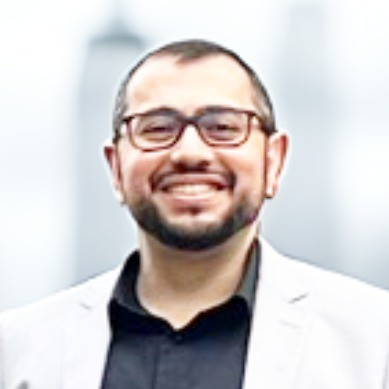
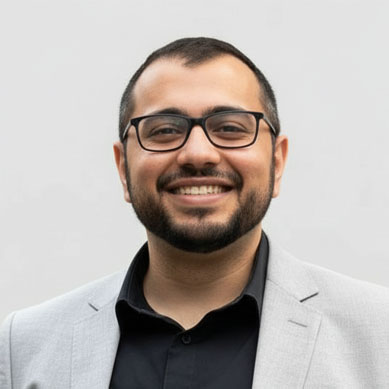
Minor updates

diff --git a/index.html b/index.html
@@ -25,6 +25,12 @@
     <link rel="preconnect" href="https://fonts.googleapis.com">
     <link rel="preconnect" href="https://fonts.gstatic.com" crossorigin>
     
+    <!-- Preload critical image -->
+    <link rel="preload" as="image" href="/images/Qandil-IssaQandil_400x400.jpg" type="image/jpeg">
+    
+    <!-- Preload critical font -->
+    <link rel="preload" href="https://fonts.gstatic.com/s/inter/v12/UcCO3FwrK3iLTeHuS_fvQtMwCp50KnMw2boKoduKmMEVuLyfAZ9hiJ-Ek-_EeA.woff2" as="font" type="font/woff2" crossorigin>
+    
     <!-- Font -->
     <link href="https://fonts.googleapis.com/css2?family=Inter:wght@400;500;700&display=swap" rel="stylesheet">
     
@@ -154,12 +160,18 @@
 </head>
 <body>
     <main class="hero">
-        <img class="profile-image" 
-             src="images/Qandil-IssaQandil_400x400.jpg" 
-             alt="Issa Qandil" 
-             width="180" 
-             height="180"
-             data-track="profile-image">
+        <picture>
+            <!-- WebP format for modern browsers -->
+            <source srcset="images/Qandil-IssaQandil_400x400.webp" type="image/webp">
+            <!-- Fallback JPEG for older browsers -->
+            <img class="profile-image" 
+                 src="images/Qandil-IssaQandil_400x400.jpg" 
+                 alt="Issa Qandil - Senior Program Manager and Digital Transformation Expert"
+                 width="180" 
+                 height="180"
+                 data-track="profile-image"
+                 loading="eager">
+        </picture>
         <h1>Hi, I'm Issa Qandil</h1>
         <h2>Senior Program Manager</h2>
         <p class="lead">
@@ -185,8 +197,8 @@
     </footer>
 
     <script>
-        // GA4 Setup
-        const GA_ID = 'UA-17167181-1';
+        // Google Analytics 4 Integration
+        const GA_ID = 'G-EMLWQ0YJKP';
         const s = document.createElement('script');
         s.async = 1;
         s.src = `https://www.googletagmanager.com/gtag/js?id=${GA_ID}`;
@@ -197,16 +209,22 @@
         
         s.onload = () => {
             gtag('js', new Date());
-            gtag('config', GA_ID);
+            gtag('config', GA_ID, {
+                page_title: 'Issa Qandil - Senior Program Manager',
+                page_location: window.location.href,
+                content_group1: 'Personal Website'
+            });
         };
 
-        // Simple event tracking
-        const track = (action, label) => {
+        // Enhanced event tracking for GA4
+        const track = (action, label, value = null) => {
             if (typeof gtag !== 'undefined') {
-                gtag('event', action, {
+                const eventData = {
                     event_category: 'engagement',
                     event_label: label
-                });
+                };
+                if (value) eventData.value = value;
+                gtag('event', action, eventData);
             }
         };
 
